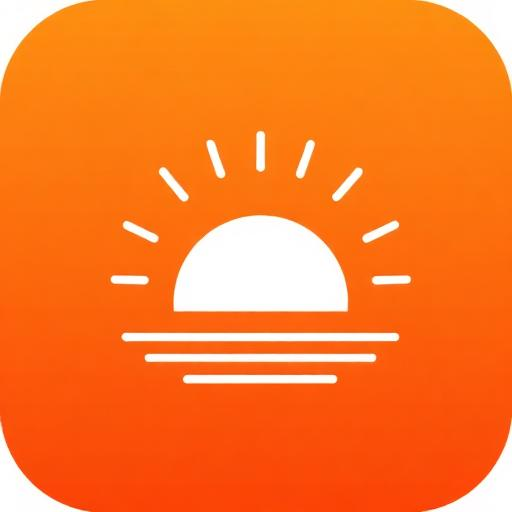
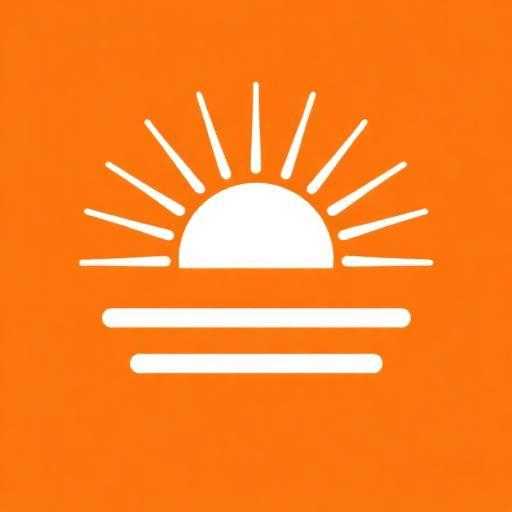
Changes

diff --git a/index.html b/index.html
@@ -4,9 +4,9 @@
     <meta charset="UTF-8" />
     <meta name="viewport" content="width=device-width, initial-scale=1.0" />
     <link rel="manifest" href="/manifest.json">
-    <link rel="apple-touch-icon" href="/icon.svg">
     <meta name="theme-color" content="#0d0d14">
     <meta name="apple-mobile-web-app-capable" content="yes">
+    <link rel="apple-touch-icon" sizes="180x180" href="/icon-512.png">
     <meta name="apple-mobile-web-app-title" content="Growth">
     <!-- TODO: Set the document title to the name of your application -->
     <title>Growth</title>
